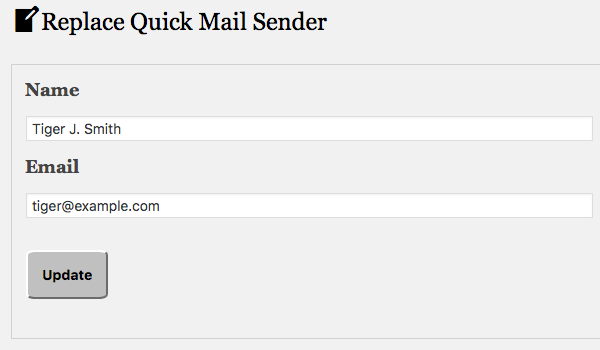
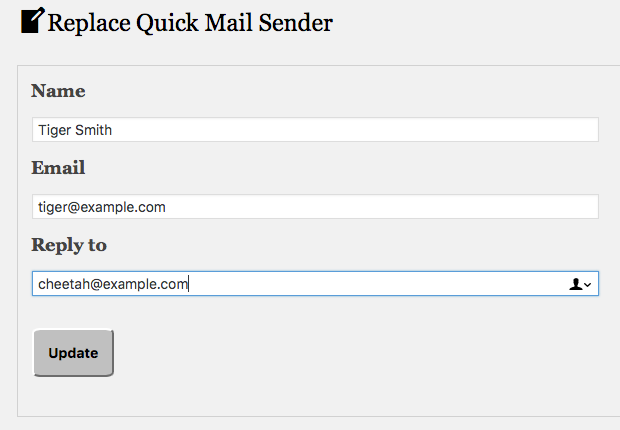
added reply to

diff --git a/replace-quick-mail-sender.php b/replace-quick-mail-sender.php
@@ -2,10 +2,10 @@
 /**
  Plugin Name:  Replace Quick Mail Sender
  Description:  Use replace_quick_mail_sender filter to replace Quick Mail name and sender. Does not work if another mail plugin is overriding credentials.
- Version:      0.0.3
+ Version:      0.1.0
  Author:       Mitchell D. Miller
  Author URI:   https://wheredidmybraingo.com/
- Plugin URI:   https://wheredidmybraingo.com/send-reliable-email-wordpress-quick-mail/
+ Plugin URI:   https://wheredidmybraingo.com/send-reliable-email-wordpress-quick-mail/#replace_sender
  Text Domain:  quick-mail-sender
  Domain Path:  /lang
  License:      GPLv3
@@ -24,6 +24,7 @@ class ReplaceQuickMailSender {
 		add_action( 'activated_plugin', array($this, 'install_quick_mail_filters'), 10, 0);
 		add_action( 'admin_menu', array($this, 'init_quick_mail_sender_menu') );
 		add_action( 'plugins_loaded', array($this, 'init_quick_mail_translation') );
+		add_filter( 'plugin_row_meta', array($this, 'qm_plugin_links'), 10, 2 );
 	} // end constructor
 
 	/**
@@ -51,7 +52,7 @@ class ReplaceQuickMailSender {
 
 		$uid = get_current_user_id();
 		if ( $uid != get_user_meta( $uid, 'qmf_quick_mail_user', true ) ) {
-			$qm_options = array('qmf_quick_mail_user' => $uid, 'qmf_quick_mail_email' => '', 'qmf_quick_mail_name' => '');
+			$qm_options = array('qmf_quick_mail_user' => $uid, 'qmf_quick_mail_email' => '', 'qmf_quick_mail_name' => '', 'qmf_quick_mail_reply_to' => '');
 			foreach ($qm_options as $k => $v) {
 				update_user_meta( $uid, $k, $v );
 			} // end foreach
@@ -64,6 +65,23 @@ class ReplaceQuickMailSender {
 	public function init_quick_mail_translation() {
 		load_plugin_textdomain( 'quick-mail-sender', false, basename( dirname( __FILE__ ) ) . '/lang' );
 	} // end init_quick_mail_translation
+
+	/**
+	 * add helpful links to plugin description. filters plugin_row_meta.
+	 *
+	 * @param array $links
+	 * @param string $file
+	 * @return array
+	 *
+	 * @since 0.1.0
+	 */
+	public function qm_plugin_links( $links, $file ) {
+		$base = plugin_basename( __FILE__ );
+		if ( $file == $base ) {
+			$links[] = '<a href="https://github.com/mitchelldmiller/replace-quick-mail-sender" target="_blank">' . __( 'Github', 'quick-mail-sender' ) . '</a>';
+		} // end if adding links
+		return $links;
+	} // end qm_plugin_links
 
 	/**
 	 * init admin menu for appropriate users.
@@ -101,6 +119,8 @@ class ReplaceQuickMailSender {
 		$showform = ( $uid == get_user_meta( $uid, 'qmf_quick_mail_user', true ) );
 		$email = $showform ? get_user_meta( $uid, 'qmf_quick_mail_email', true ) : '';
 		$name = $showform ? get_user_meta( $uid, 'qmf_quick_mail_name', true ) : '';
+		$reply_to = $showform ? get_user_meta( $uid, 'qmf_quick_mail_reply_to', true ) : '';
+
 		if ( $showform && 'POST' == $_SERVER['REQUEST_METHOD'] ) {
 			if ( empty( self::$qm_dir ) ) {
 				$qm = QuickMail::get_instance();
@@ -125,6 +145,17 @@ class ReplaceQuickMailSender {
 				$message = __( 'Invalid Email Address', 'quick-mail-sender' );
 			} // end if invalid email
 
+			$rmail = empty($_POST['qmf_quick_mail_reply_to']) ? '' : sanitize_email( trim( $_POST['qmf_quick_mail_reply_to'] ) );
+			$verify_domain = '';
+			if ( is_multisite() ) {
+				$verify_domain = get_blog_option( get_current_blog_id(), 'verify_quick_mail_addresses', 'N' );
+			} else {
+				$verify_domain = get_option( 'verify_quick_mail_addresses', 'N' );
+			} // end if multisite
+			if ( empty( $message ) && !empty( $umail ) && !QuickMailUtil::qm_valid_email_domain( $rmail, $verify_domain ) ) {
+				$message = __( 'Invalid Email Address', 'quick-mail-sender' );
+			} // end if invalid email
+
 			if ( empty( $message) ) {
 				$updated = false;
 				if ( $uname != $name ) {
@@ -138,6 +169,12 @@ class ReplaceQuickMailSender {
 					$email = $umail;
 					$updated = true;
 				} // end if updated email
+
+				if ( $rmail != $reply_to ) {
+					update_user_meta( $uid, 'qmf_quick_mail_reply_to', $rmail );
+					$reply_to = $rmail;
+					$updated = true;
+				} // end if updated reply to
 
 				if ( ( empty( $email ) || empty( $name ) ) && $updated) {
 					echo '<div role="alert" class="updated"><p>', _e( 'Filter Disabled', 'quick-mail-sender' ), '</p></div>';
@@ -159,6 +196,8 @@ class ReplaceQuickMailSender {
 		<p><input type="text" aria-labelledby="te_label" size="64" maxlength="80" value="<?php echo $name; ?>" name="qmf_quick_mail_name" id="qmf_quick_mail_name" tabindex="1"></p>
 		<label id="tn_label" for="qmf_quick_mail_email" class="recipients"><?php _e( 'Email', 'quick-mail-sender' ); ?></label>
 		<p><input type="email" aria-labelledby="tn_label" size="64" maxlength="255" value="<?php echo $email; ?>" name="qmf_quick_mail_email" id="qmf_quick_mail_email" tabindex="2"></p>
+		<label id="tr_label" for="qmf_quick_mail_reply_to" class="recipients"><?php _e( 'Reply to', 'quick-mail-sender' ); ?></label>
+		<p><input type="email" aria-labelledby="tr_label" size="64" maxlength="255" value="<?php echo $reply_to; ?>" name="qmf_quick_mail_reply_to" id="qmf_quick_mail_reply_to" tabindex="10"></p>
 <p class="submit"><input type="submit" id="qm-submit" name="qm-submit"
 title="<?php _e( 'Update', 'quick-mail-sender' ); ?>" tabindex="99"
 value="<?php _e( 'Update', 'quick-mail-sender' ); ?>"></p>
@@ -175,15 +214,16 @@ value="<?php _e( 'Update', 'quick-mail-sender' ); ?>"></p>
 	/**
 	 * replace quick mail sender.
 	 * @param array $args $args['email'] = email, $args['name'] = name
-	 * @return array modified name, email
+	 * @return array modified name, email, reply_to
 	 */
 	public function replace_quick_mail_sender( $args ) {
 		$uid = get_current_user_id();
 		if ($uid == get_user_meta( $uid, 'qmf_quick_mail_user', true ) ) {
 			$email = get_user_meta( $uid, 'qmf_quick_mail_email', true );
-			$name = get_user_meta ($uid, 'qmf_quick_mail_name', true );
+			$name = get_user_meta($uid, 'qmf_quick_mail_name', true );
+			$rmail = get_user_meta( $uid, 'qmf_quick_mail_reply_to', true );
 			if ( !empty( $email ) && !empty( $name ) ) {
-				return array('email' => $email, 'name' => $name);
+				return array('email' => $email, 'name' => $name, 'reply_to' => $rmail);
 			} // end if got name and email
 		} // end if same user is checking
 

diff --git a/README.md b/README.md
@@ -1,21 +1,20 @@
 Replace Quick Mail Sender
 ====================
 
-WordPress Plugin to replace user sender name and address in Quick Mail plugin.
+WordPress Plugin to replace user sender name, email address, reply to address in Quick Mail plugin.
 
 Description
 -----------
 
 ![screenshot](screenshot.png)
 
-
-Implements filter for current user to replace their sending name and address.
+Implements filter for current user to replace their sending name, email address, reply to address.
 
 Requires Administrator capabilities and [Quick Mail plugin](https://github.com/mitchelldmiller/quick-mail-wp-plugin) 3.2.0 or later.
 
 __Features__
 
-* Includes `replace_quick_mail_sender` filter, and form to change sending name and address with it. 
+* Includes `replace_quick_mail_sender` filter, and form to change sending name and addresses with it. 
 
 ### Learn More
 
